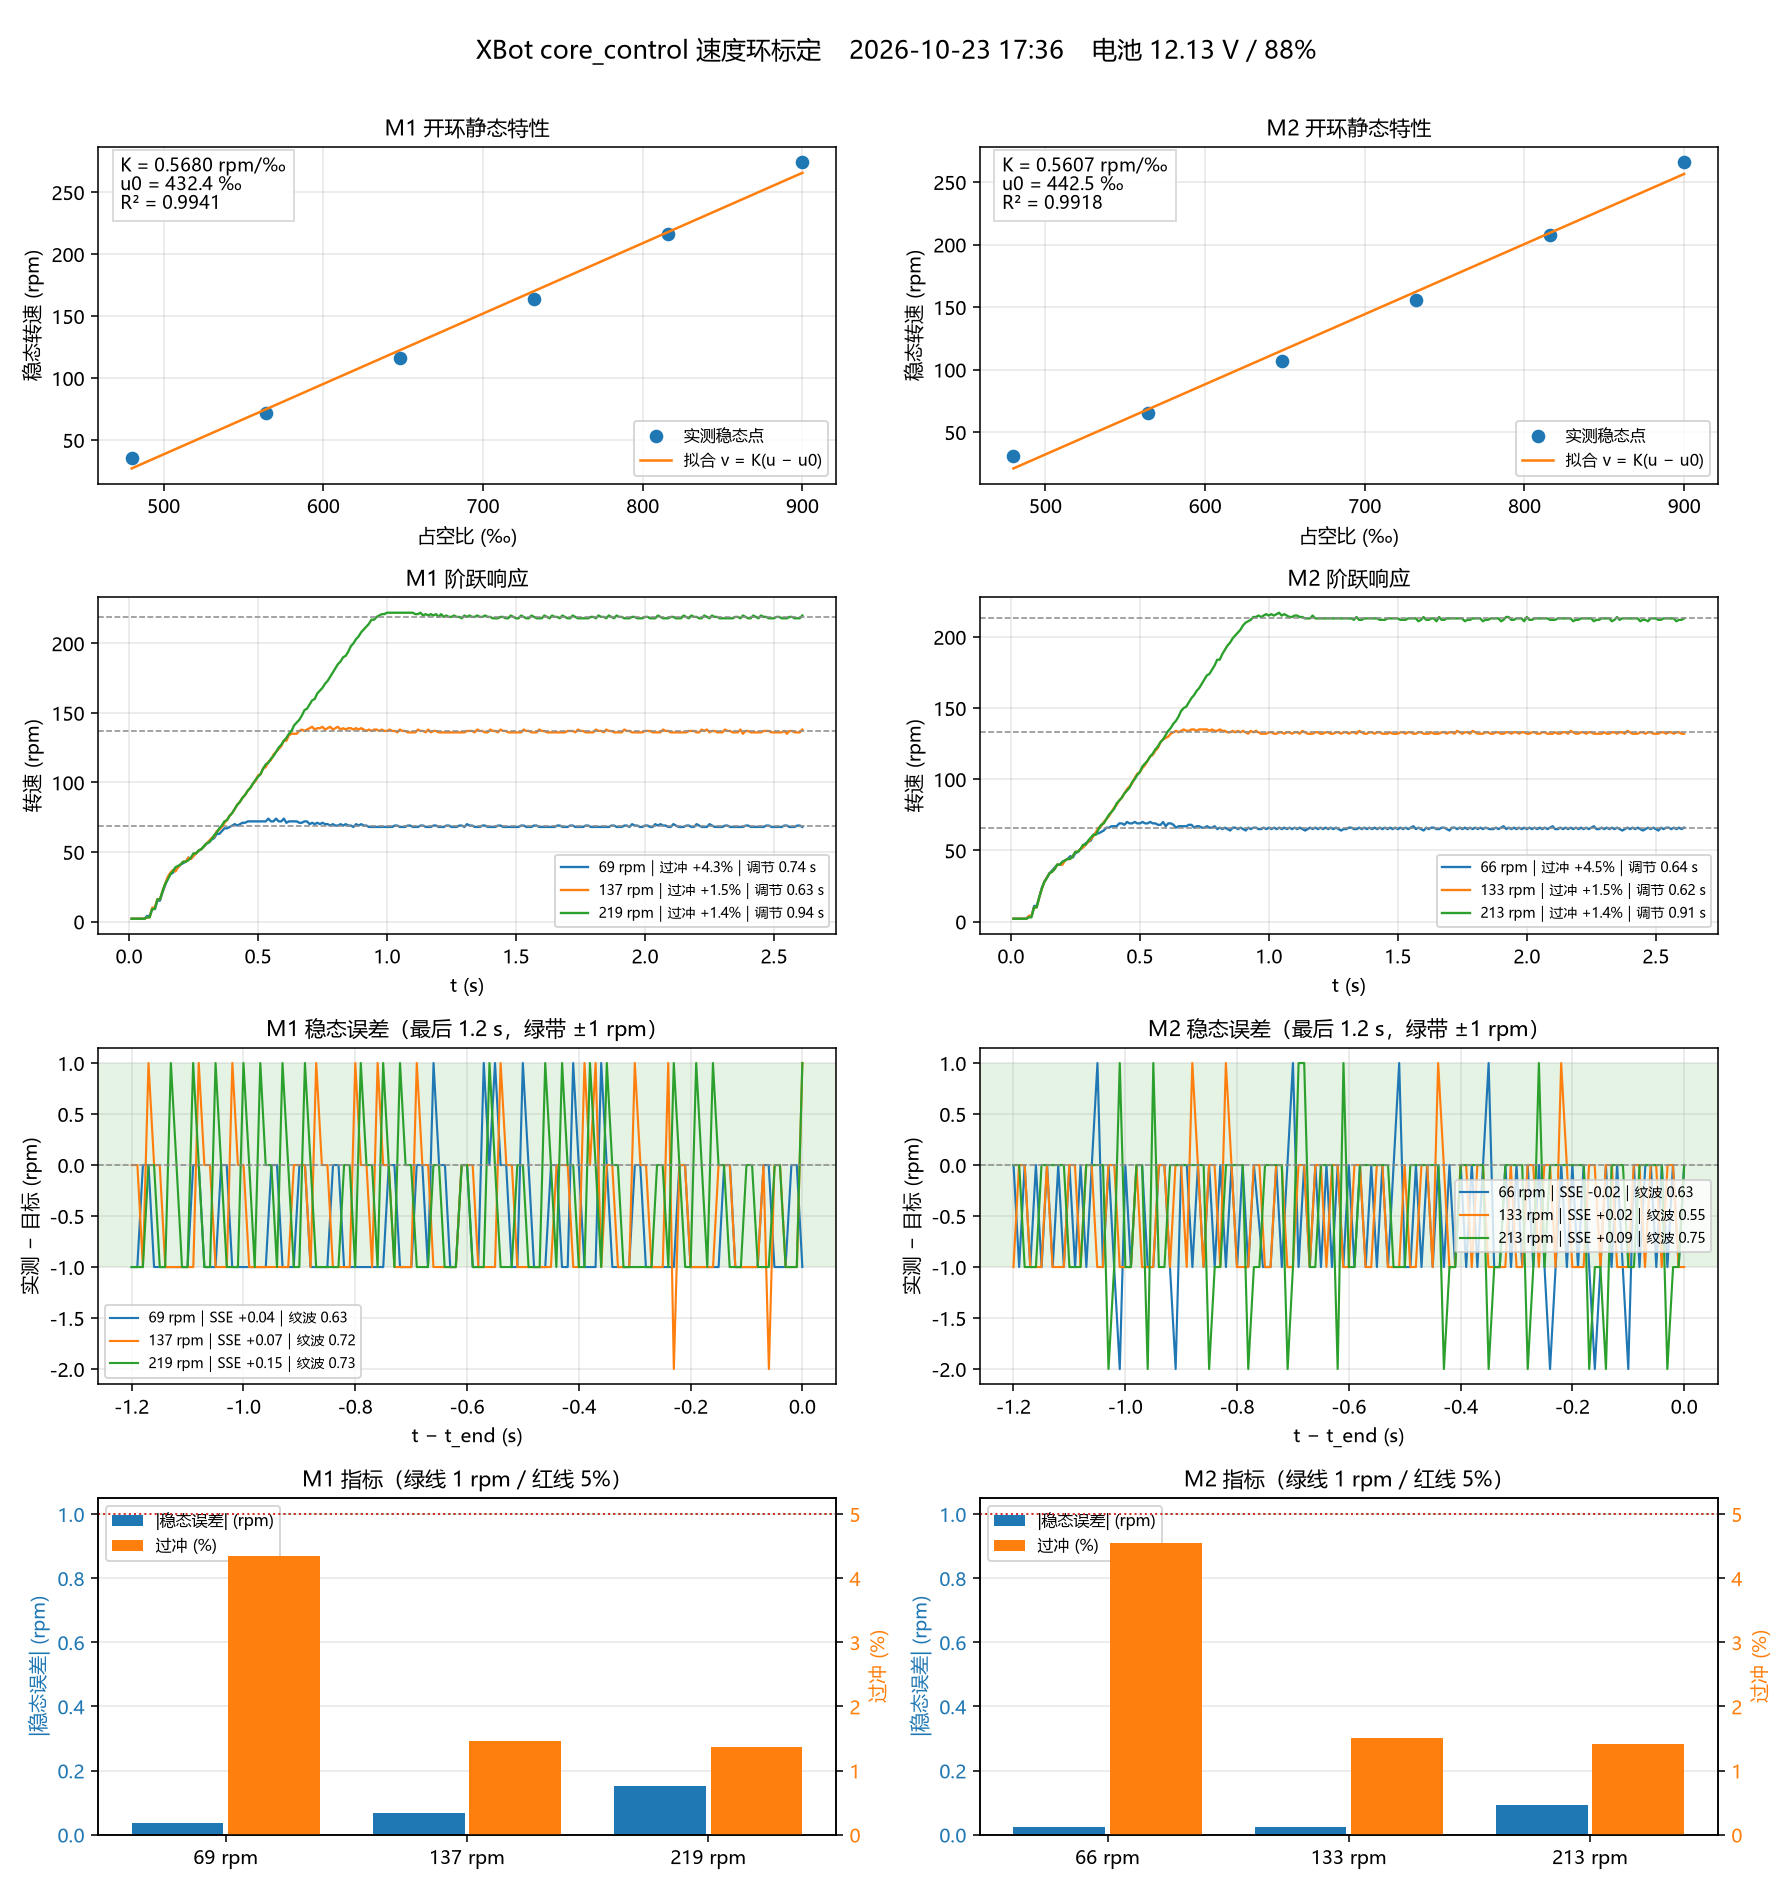
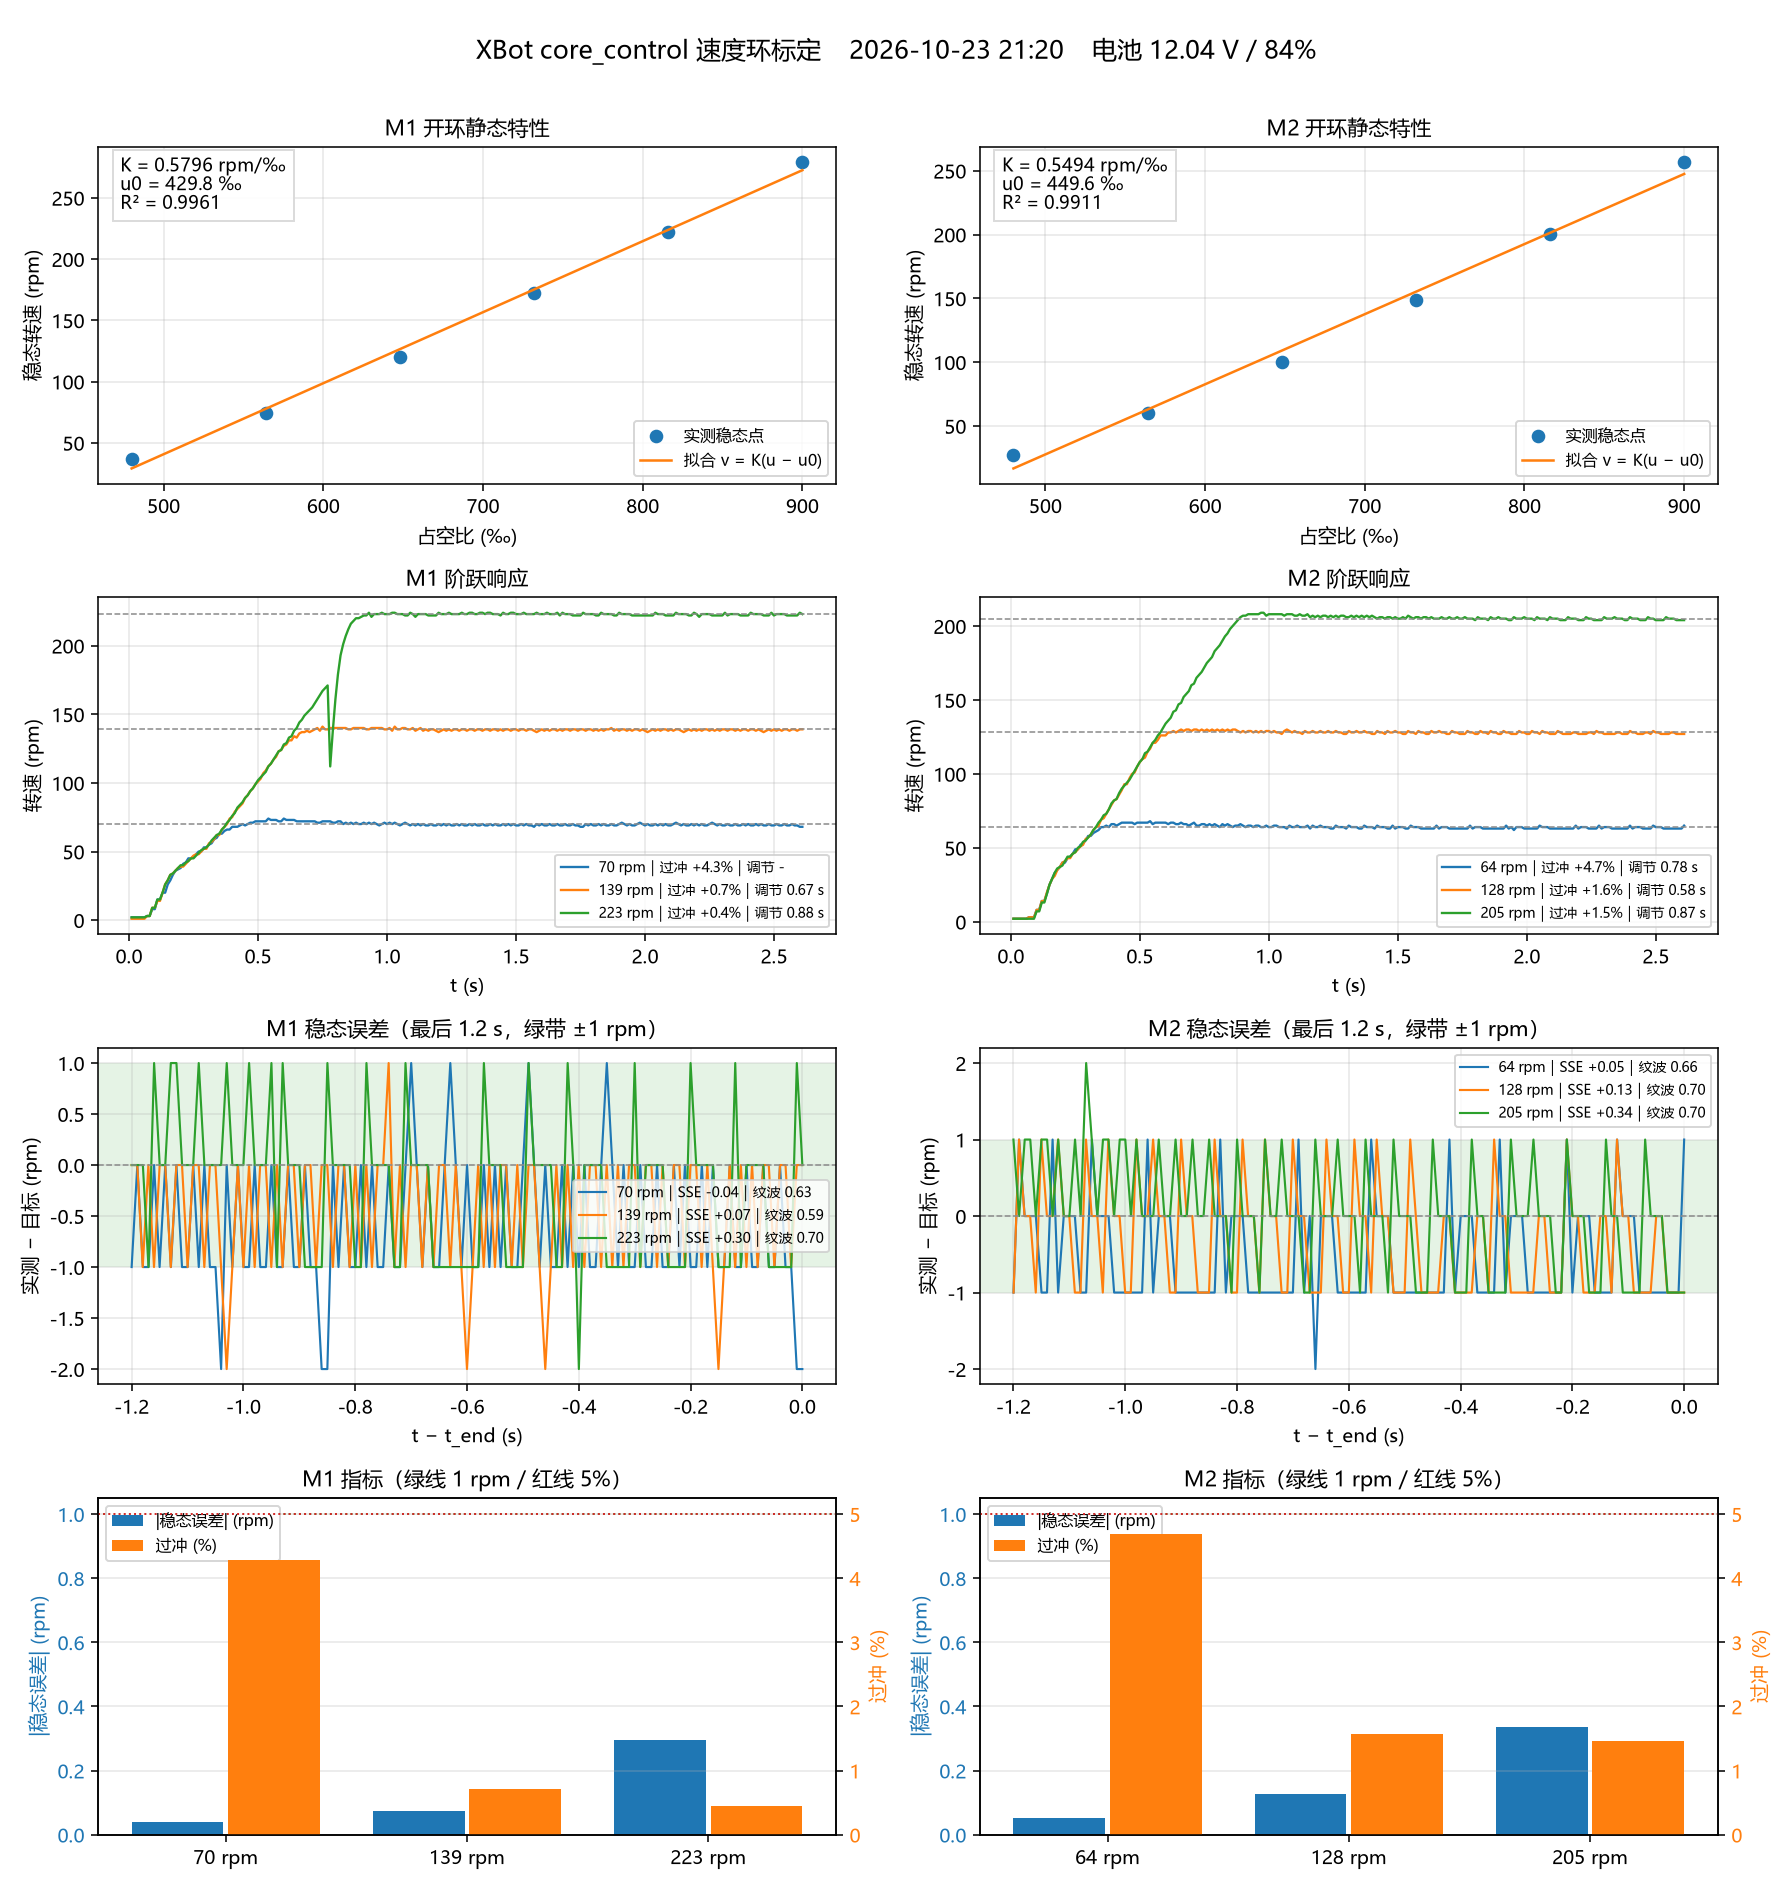
new change

diff --git a/firmware/core_control/source/service/motor_service.c b/firmware/core_control/source/service/motor_service.c
@@ -42,12 +42,18 @@
 #define MOTOR_DEFAULT_SLEW_RPM_S  250       /* 参考转速的爬升率 */
 #define MOTOR_DEFAULT_FADE_RPM    50        /* 起步补偿的衰减区间 */
 
-/* 逐电机缺省参数: 四个电机共用一套宏无法表达两台的静摩擦差异(427 vs 447) */
+/** 
+ *   M1: K=0.5796 u0=429.8 tau=0.138 -> kp=2.588 ki=18.79 ff=1.7253 offset=430 stiction=86
+ *   M2: K=0.5494 u0=449.6 tau=0.100 -> kp=2.730 ki=9.79  ff=1.8203 offset=450 stiction=44
+ * 验收: 稳态误差 <=0.34rpm, 纹波 <=0.70, 过冲 <=4.7%, 调节 0.58~0.88s
+ * 注: M2 的 ki/stiction 明显小于 M1 —— M2 死区更高(449.6 vs 429.8)、低速过冲更大,
+ *     自动重试收敛到了更保守的积分。两台的瞬态略有差异, 稳态精度一致。 
+ */
 static const motor_ctrl_cfg_t k_motor_default[MOTOR_NUM] = {
-    [MOTOR1] = { .kp = 2.5379f, .ki = 21.3840f, .ff_gain = 1.6919f,
-                 .ff_offset = 427, .slew_rpm_s = 250, .fade_rpm = 50, .stiction = 85 },
-    [MOTOR2] = { .kp = 2.5457f, .ki = 21.3382f, .ff_gain = 1.6971f,
-                 .ff_offset = 447, .slew_rpm_s = 250, .fade_rpm = 50, .stiction = 89 },
+    [MOTOR1] = { .kp = 2.5880f, .ki = 18.7883f, .ff_gain = 1.7253f,
+                 .ff_offset = 430, .slew_rpm_s = 250, .fade_rpm = 50, .stiction = 86 },
+    [MOTOR2] = { .kp = 2.7304f, .ki = 9.7890f, .ff_gain = 1.8203f,
+                 .ff_offset = 450, .slew_rpm_s = 250, .fade_rpm = 50, .stiction = 44 },
     [MOTOR3] = { .kp = MOTOR_DEFAULT_KP, .ki = MOTOR_DEFAULT_KI,
                  .ff_gain = MOTOR_DEFAULT_FF_GAIN, .ff_offset = MOTOR_DEFAULT_FF_OFFSET,
                  .slew_rpm_s = MOTOR_DEFAULT_SLEW_RPM_S, .fade_rpm = MOTOR_DEFAULT_FADE_RPM,
@@ -69,10 +75,11 @@ typedef enum {
 static uint16_t enc_last[MOTOR_NUM];      /* 上次编码器原始值(16bit) */
 static int32_t  pos_accum[MOTOR_NUM];     /* 累计位置(计数, 带符号) */
 
-/* 编码器计数方向: M2 与 M1 对向安装, 其 A/B 相相对 M1 是反的(实测正占空比 -> 负计数)。
- * 这里只取反"计数", 不碰 PWM: 轮子转向维持机械设计, 但让"正占空比 -> 正转速"符号统一,
- * 否则速度环误差符号相反, 一进闭环就是正反馈。 */
-static const int8_t enc_dir[MOTOR_NUM] = { 1, -1, 1, 1 };
+/* 编码器计数方向(把测量坐标系统一到"正 = 该轮朝前")
+ * 目标约定: 正占空比 -> 车轮朝前 -> 转速与位置为正。
+ *  - M1: 与 M2 对向安装, 同极性时两轮一前一后(实测 M1 朝后)。
+ */
+static const int8_t enc_dir[MOTOR_NUM] = {-1, -1, 1, 1};
 
 static int32_t  m_cnt[MOTOR_NUM];         /* M/T 窗口累计计数 */
 static uint32_t m_us[MOTOR_NUM];          /* M/T 窗口累计 µs */

diff --git a/firmware/core_control/source/bsp/bsp_motor.c b/firmware/core_control/source/bsp/bsp_motor.c
@@ -45,6 +45,12 @@
 #define MOTOR_CH_M4A   TIM_CHANNEL_2
 #define MOTOR_CH_M4B   TIM_CHANNEL_3
 
+/* 编码器输入数字滤波: IC1F/IC2F 编码 0xC = fDTS/16, N=8 ≈ 1.8µs
+ * CubeMX 生成的是 0(不滤波)。霍尔编码器开集输出、边沿较慢, 电机 PWM(20kHz) 与大电流
+ * 走线的干扰会被直接当成边沿计入 -> 偶发丢计数(实测 230rpm 出现过一次)。
+ * 输出轴 300rpm 时每通道信号周期约 600µs, 1.8µs 滤波占 0.3%, 不影响计数精度。 */
+#define BSP_MOTOR_ENC_FILTER   0xCu
+
 /* typedefs */
 typedef struct {
     TIM_HandleTypeDef *pwm_htim;
@@ -58,13 +64,30 @@ typedef struct {
 /* static variables */
 /* 纯硬件映射表, 不可变 */
 static const motor_hw_config_t motor_hw[MOTOR_NUM] = {
-    [MOTOR1] = { &htim8, MOTOR_CH_M1A, MOTOR_CH_M1B, 0, 0, &htim2 },
+    /* M1 与 M2 对向安装: 同极性时两轴绝对转向相同, 两个轮子会一个朝前一个朝后。
+     * 实测 M1 朝后、M2 朝前, 故对调 M1 的 IN1/IN2, 使正占空比时两轮都朝前。
+     */
+    [MOTOR1] = { &htim8, MOTOR_CH_M1B, MOTOR_CH_M1A, 0, 0, &htim2 },
     [MOTOR2] = { &htim8, MOTOR_CH_M2A, MOTOR_CH_M2B, 0, 0, &htim4 },
     [MOTOR3] = { &htim1, MOTOR_CH_M3A, MOTOR_CH_M3B, 0, 0, &htim5 },
     [MOTOR4] = { &htim1, MOTOR_CH_M4A, MOTOR_CH_M4B, 1, 1, &htim3 },
 };
 
 /* functions implementation */
+/**
+ * @brief 配置编码器输入滤波(CCMR1 的 IC1F/IC2F)
+ * @param m 电机配置
+ * @note  CubeMX 生成的是 IC1F=IC2F=0(不滤波); 在用户代码里覆盖, 重新生成 tim.c 不会冲掉
+ */
+static void enc_set_filter(const motor_hw_config_t *m)
+{
+    uint32_t ccmr1 = m->enc_htim->Instance->CCMR1;
+    ccmr1 &= ~((0xFu << 4) | (0xFu << 12));          /* 清 IC1F(bit7:4) / IC2F(bit15:12) */
+    ccmr1 |= ((uint32_t)BSP_MOTOR_ENC_FILTER << 4) |
+             ((uint32_t)BSP_MOTOR_ENC_FILTER << 12);
+    m->enc_htim->Instance->CCMR1 = ccmr1;
+}
+
 /**
  * @brief 设置通道占空比
  * @param m 电机配置
@@ -91,6 +114,7 @@ void bsp_motor_set_duty(motor_id_t id, uint16_t in1_duty, uint16_t in2_duty)
     ch_set_duty(m, m->in1_ch, in1_duty, m->in1_inv);
     ch_set_duty(m, m->in2_ch, in2_duty, m->in2_inv);
 }
+
 /**
  * @brief 初始化电机
  * @param id 电机ID
@@ -100,6 +124,7 @@ void bsp_motor_init(motor_id_t id)
     const motor_hw_config_t *m = &motor_hw[id];
 
     HAL_TIM_Encoder_Start(m->enc_htim, TIM_CHANNEL_ALL);
+    enc_set_filter(m);              /* 编码器输入滤波, 抗 PWM 干扰 */
 
     if (m->in1_inv) HAL_TIMEx_PWMN_Start(m->pwm_htim, m->in1_ch);
     else            HAL_TIM_PWM_Start(m->pwm_htim, m->in1_ch);

diff --git a/firmware/core_control/source/app/comm_task.c b/firmware/core_control/source/app/comm_task.c
@@ -18,8 +18,12 @@
 #define COMM_TASK_PERIOD_MS    10u
 #define COMM_TASK_STACK_WORDS  256u
 #define COMM_TASK_PRIORITY     OSAL_PRIO_NORMAL   /* 低于 motor_task(控制优先) */
+#define COMM_LINK_TIMEOUT_MS   500u               /* 上位机超过此时长无有效帧 -> 判断链并刹车 */
 
+/* static variables */
 static osal_task_handle_t comm_task_handle = NULL;      /* 通信任务句柄 */
+static uint32_t last_cmd_ms;                            /* 最近一次收到有效帧的时刻 */
+static bool     link_lost;                              /* 断链状态, 只在跳变时刹一次 */
 
 /* functions implementation */
 /**
@@ -85,7 +89,8 @@ static void comm_send_battery(const comm_frame_t *frame)
 
 static void handle_frame(const comm_frame_t *frame)
 {
-    /* 收到上位机任意有效帧 -> 进入正常运行态 */
+    /* 收到上位机任意有效帧 -> 链路正常, 进入正常运行态 */
+    last_cmd_ms = osal_time_get_ms();
     system_state_set(STATE_NORMAL);
 
     switch (frame->cmd) {
@@ -185,6 +190,8 @@ static void comm_task(void *arg)
 
     osal_wake_time_init(&wake);
     comm_protocol_init();
+    last_cmd_ms = osal_time_get_ms();
+    link_lost   = false;
 
     for (;;) {
 #ifndef ORDINARY_DEBUG        
@@ -197,8 +204,20 @@ static void comm_task(void *arg)
 
         /* 2. 帧超时复位（丢弃残缺帧） */
         comm_protocol_poll(osal_time_get_ms());
+
+        /* 3. 断链保护: 上位机长时间没有有效帧(拔线/上位机崩溃/串口异常) -> 全部刹车,
+         *    否则电机会保持最后一条指令一直转。只在跳变时刹一次, 恢复后自动解除。 */
+        if ((osal_time_get_ms() - last_cmd_ms) > COMM_LINK_TIMEOUT_MS) {
+            if (!link_lost) {
+                motor_service_brake_all();
+                system_state_set(STATE_INIT);   /* LED 常亮 = 未连接上位机 */
+                link_lost = true;
+            }
+        } else {
+            link_lost = false;
+        }
 #endif
-        /* 3. 固定周期调度 */
+        /* 4. 固定周期调度 */
         osal_delay_until(&wake, COMM_TASK_PERIOD_MS);
     }
 }

diff --git a/firmware/core_control/source/app/test_task.c b/firmware/core_control/source/app/test_task.c
@@ -28,7 +28,7 @@ static osal_task_handle_t test_task_handle = NULL;
  */
 static void test_task(void *arg) {
     (void)arg;
-    uint8_t M1 = 0;
+    uint8_t M1 = 1;
     uint16_t count;
     osal_wake_time_t wake;
     osal_wake_time_init(&wake);
